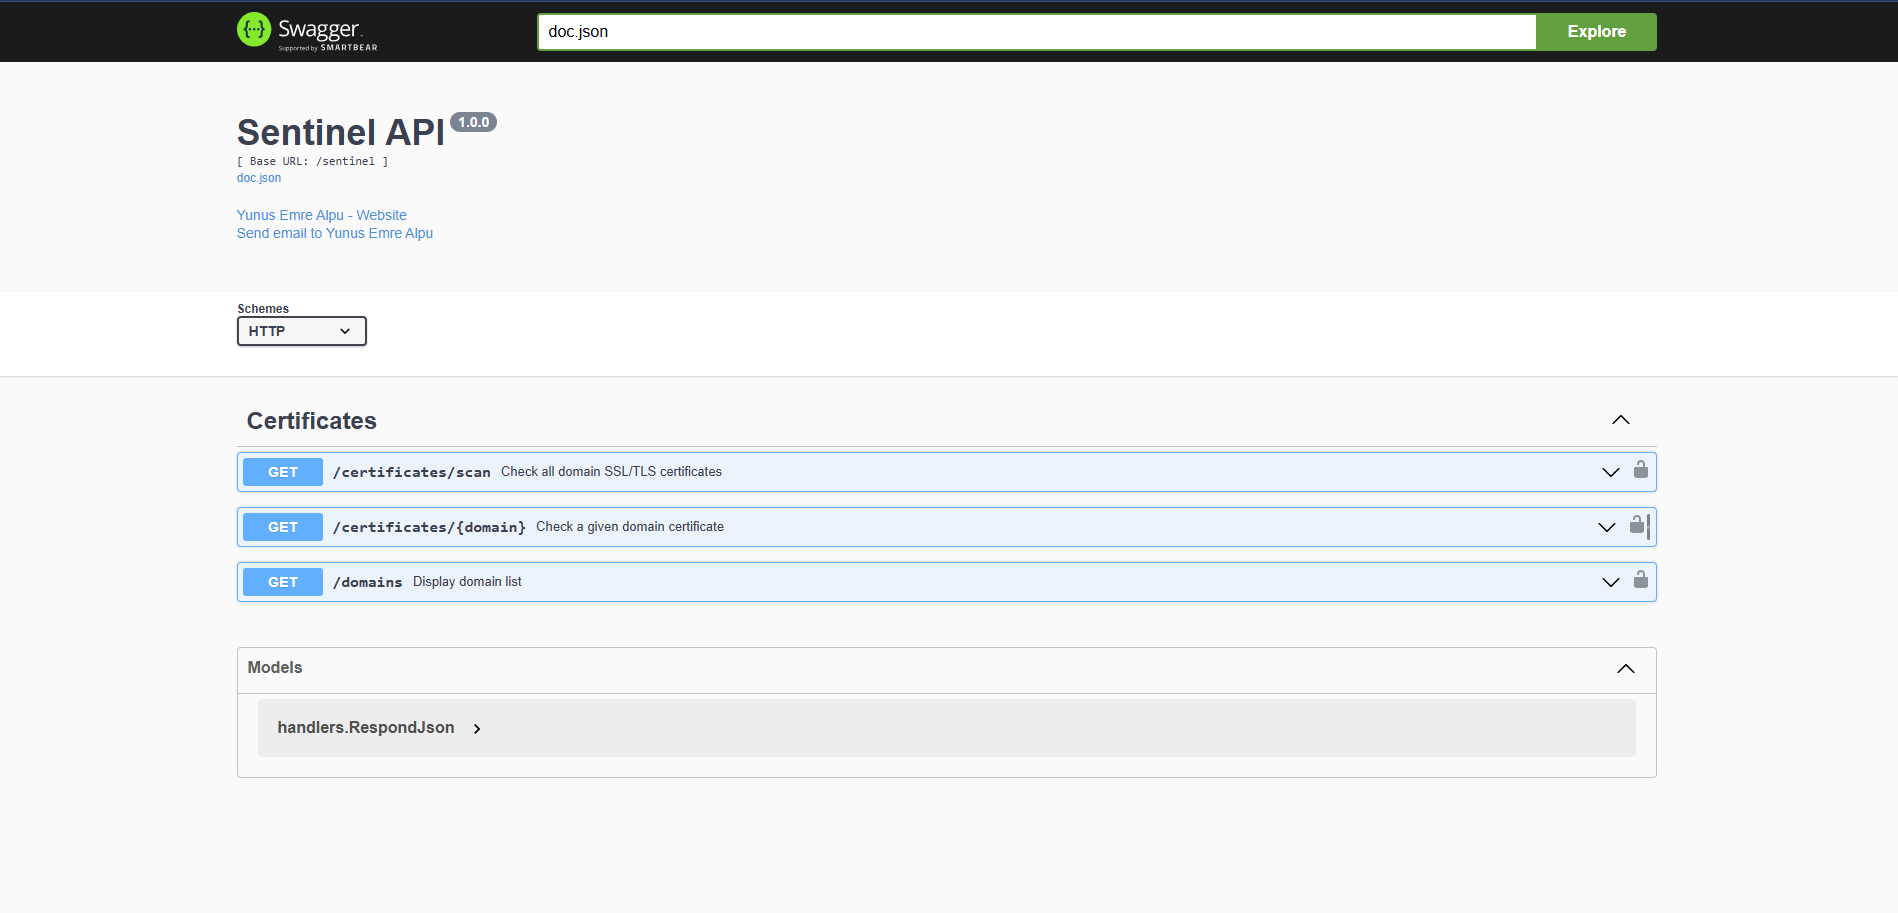
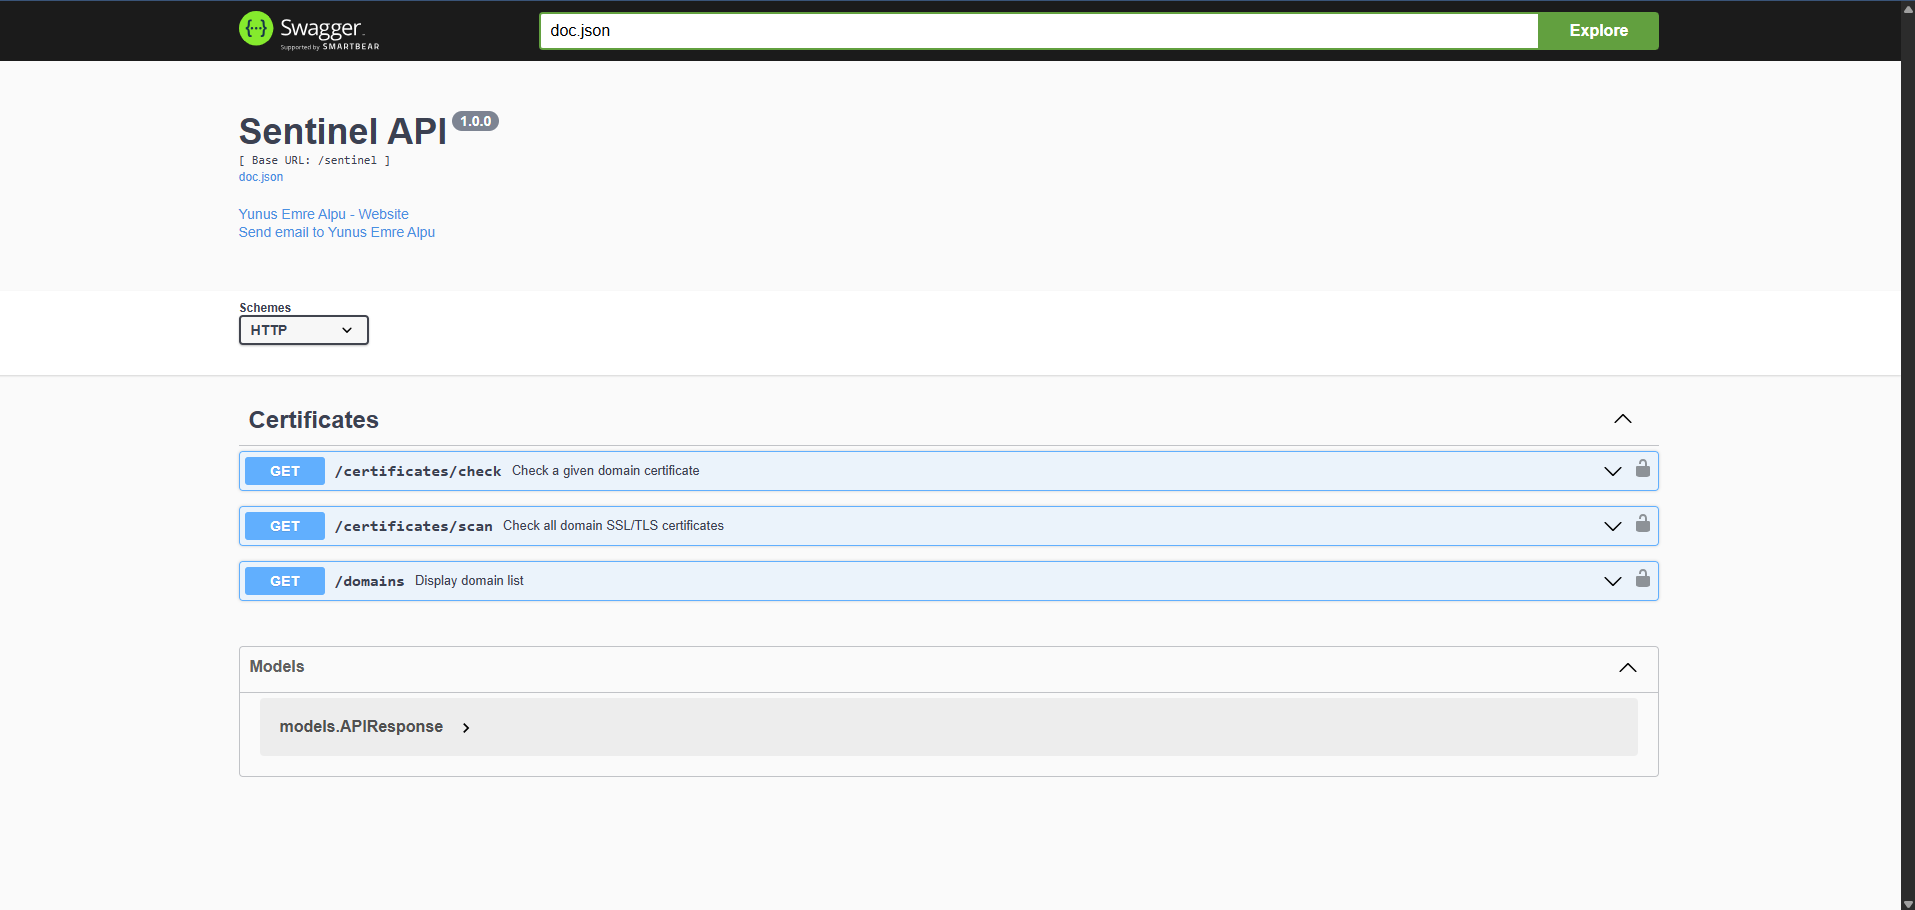
refactor: Update certificate check endpoints and improve documentation

diff --git a/docs/docs.go b/docs/docs.go
@@ -19,6 +19,67 @@ const docTemplate = `{
     "host": "{{.Host}}",
     "basePath": "{{.BasePath}}",
     "paths": {
+        "/certificates/check": {
+            "get": {
+                "security": [
+                    {
+                        "BearerAuth": []
+                    }
+                ],
+                "description": "This endpoint checks the SSL/TLS certificate of a given domain and returns its details. Only one domain can be checked at a time.",
+                "consumes": [
+                    "application/json"
+                ],
+                "produces": [
+                    "application/json"
+                ],
+                "tags": [
+                    "Certificates"
+                ],
+                "summary": "Check a given domain certificate",
+                "parameters": [
+                    {
+                        "type": "string",
+                        "description": "Domain",
+                        "name": "domain",
+                        "in": "query",
+                        "required": true
+                    },
+                    {
+                        "type": "integer",
+                        "description": "Expire days, default is config.C.App.Expire value",
+                        "name": "expire",
+                        "in": "query"
+                    }
+                ],
+                "responses": {
+                    "200": {
+                        "description": "Certificate details retrieved successfully",
+                        "schema": {
+                            "$ref": "#/definitions/models.APIResponse"
+                        }
+                    },
+                    "400": {
+                        "description": "Certificate check failed due to invalid request",
+                        "schema": {
+                            "$ref": "#/definitions/models.APIResponse"
+                        }
+                    },
+                    "422": {
+                        "description": "Certificate check failed due to invalid request",
+                        "schema": {
+                            "$ref": "#/definitions/models.APIResponse"
+                        }
+                    },
+                    "500": {
+                        "description": "Certificate check failed due to internal server error",
+                        "schema": {
+                            "$ref": "#/definitions/models.APIResponse"
+                        }
+                    }
+                }
+            }
+        },
         "/certificates/scan": {
             "get": {
                 "security": [
@@ -52,67 +113,6 @@ const docTemplate = `{
                     },
                     "422": {
                         "description": "Certificate check failed due to invalid request body",
-                        "schema": {
-                            "$ref": "#/definitions/models.APIResponse"
-                        }
-                    },
-                    "500": {
-                        "description": "Certificate check failed due to internal server error",
-                        "schema": {
-                            "$ref": "#/definitions/models.APIResponse"
-                        }
-                    }
-                }
-            }
-        },
-        "/certificates/{domain}": {
-            "get": {
-                "security": [
-                    {
-                        "BearerAuth": []
-                    }
-                ],
-                "description": "This endpoint checks the SSL/TLS certificate of a given domain and returns its details. Only one domain can be checked at a time.",
-                "consumes": [
-                    "application/json"
-                ],
-                "produces": [
-                    "application/json"
-                ],
-                "tags": [
-                    "Certificates"
-                ],
-                "summary": "Check a given domain certificate",
-                "parameters": [
-                    {
-                        "type": "string",
-                        "description": "yunusemrealpu.netlify.app:443",
-                        "name": "domain",
-                        "in": "path",
-                        "required": true
-                    },
-                    {
-                        "type": "integer",
-                        "description": "Expire days, default is config.C.App.Expire value",
-                        "name": "expire",
-                        "in": "query"
-                    }
-                ],
-                "responses": {
-                    "200": {
-                        "description": "Certificate details retrieved successfully",
-                        "schema": {
-                            "$ref": "#/definitions/models.APIResponse"
-                        }
-                    },
-                    "400": {
-                        "description": "Certificate check failed due to invalid request",
-                        "schema": {
-                            "$ref": "#/definitions/models.APIResponse"
-                        }
-                    },
-                    "422": {
-                        "description": "Certificate check failed due to invalid request",
                         "schema": {
                             "$ref": "#/definitions/models.APIResponse"
                         }

diff --git a/pkg/utils/helpers.go b/pkg/utils/helpers.go
@@ -8,6 +8,7 @@ import (
 	"encoding/pem"
 	"fmt"
 	"net"
+	"net/url"
 	"strconv"
 	"strings"
 	"time"
@@ -93,6 +94,60 @@ func UrlToOptions(url string) (string, string, string, string, string, string) {
 	return protocol, username, password, host, port, db
 }
 
+// NormalizeDomain normalizes domain input to host:port format
+// Supports formats:
+//   - domain.com (adds default port 443)
+//   - domain.com:443 (uses as-is)
+//   - https://domain.com (parses URL, uses port 443)
+//   - http://domain.com:8080 (parses URL, uses specified port)
+//   - https://domain.com:8443 (parses URL, uses specified port)
+func NormalizeDomain(domain string) (string, error) {
+	if domain == "" {
+		return "", fmt.Errorf("domain cannot be empty")
+	}
+
+	// Trim spaces
+	domain = strings.TrimSpace(domain)
+
+	// Check if domain already has protocol
+	if strings.HasPrefix(domain, "http://") || strings.HasPrefix(domain, "https://") {
+		// Parse URL
+		parsedURL, err := url.Parse(domain)
+		if err != nil {
+			return "", fmt.Errorf("invalid URL format: %v", err)
+		}
+
+		host := parsedURL.Hostname()
+		port := parsedURL.Port()
+
+		// If port is not specified, use default based on scheme
+		if port == "" {
+			if parsedURL.Scheme == "https" {
+				port = "443"
+			} else {
+				port = "80"
+			}
+		}
+
+		return fmt.Sprintf("%s:%s", host, port), nil
+	}
+
+	// Check if domain already has port (format: domain:port)
+	if strings.Contains(domain, ":") {
+		// Validate that it has exactly one colon and port is numeric
+		parts := strings.Split(domain, ":")
+		if len(parts) == 2 {
+			if _, err := strconv.Atoi(parts[1]); err == nil {
+				// Valid domain:port format
+				return domain, nil
+			}
+		}
+	}
+
+	// No protocol, no port - add default HTTPS port
+	return fmt.Sprintf("%s:443", domain), nil
+}
+
 // Check Domain Certificate with context support
 func CheckDomainCertificate(domain string, day int) (bool, *models.Log) {
 	ctx, cancel := context.WithTimeout(context.Background(), DefaultTimeout)
@@ -108,13 +163,20 @@ func CheckDomainCertificateWithContext(ctx context.Context, domain string, day i
 		day = constants.DefaultExpireDays
 	}
 
+	// Normalize domain to host:port format
+	normalizedDomain, err := NormalizeDomain(domain)
+	if err != nil {
+		logger.CLogger.Error("Failed to normalize domain:", err)
+		return false, nil
+	}
+
 	// false: certificate will not expire in 30 days
 	// true: certificate will expire in 30 days
-	logger.CLogger.Info("INFO: Checking certificate for " + domain)
+	logger.CLogger.Info("INFO: Checking certificate for " + normalizedDomain)
 
 	// TCP connection to domain with context
 	var d net.Dialer
-	conn, err := d.DialContext(ctx, "tcp", domain)
+	conn, err := d.DialContext(ctx, "tcp", normalizedDomain)
 	if err != nil {
 		if netErr, ok := err.(*net.OpError); ok && netErr.Op == "dial" {
 			// DNS resolution error
@@ -135,7 +197,7 @@ func CheckDomainCertificateWithContext(ctx context.Context, domain string, day i
 	// TLS Handshake
 	// x509: certificate signed by unknown authority
 	tlsConn := tls.Client(conn, &tls.Config{
-		ServerName:         strings.Split(domain, ":")[0],
+		ServerName:         strings.Split(normalizedDomain, ":")[0],
 		InsecureSkipVerify: true,
 	})
 
@@ -154,7 +216,7 @@ func CheckDomainCertificateWithContext(ctx context.Context, domain string, day i
 	}
 
 	cert := state.PeerCertificates[0]
-	tempPort, _ := strconv.Atoi(strings.Split(domain, ":")[1])
+	tempPort, _ := strconv.Atoi(strings.Split(normalizedDomain, ":")[1])
 	tempOrganization := cert.Subject.Organization                      // Optimized line
 	daysUntilExpiration := int(time.Until(cert.NotAfter).Hours() / 24) // Optimized line
 
@@ -177,7 +239,7 @@ func CheckDomainCertificateWithContext(ctx context.Context, domain string, day i
 		SerialNumber:       cert.SerialNumber.String(),
 		Subject:            cert.Subject.String(),
 		IssuerSubject:      cert.Issuer.String(),
-		Domain:             strings.Split(domain, ":")[0],
+		Domain:             strings.Split(normalizedDomain, ":")[0],
 		Port:               tempPort,
 		CommonName:         cert.Subject.CommonName,
 		Organization:       ArrayToString(tempOrganization),

diff --git a/internal/handlers/get_certificate_info.go b/internal/handlers/get_certificate_info.go
@@ -24,16 +24,16 @@ import (
 // @Accept json
 // @Produce json
 // @Security BearerAuth
-// @Param domain path string true "yunusemrealpu.netlify.app:443"
+// @Param domain query string true "Domain"
 // @Param expire query int false "Expire days, default is config.C.App.Expire value"
 // @Success 200 {object} models.APIResponse "Certificate details retrieved successfully"
 // @Failure 400 {object} models.APIResponse "Certificate check failed due to invalid request"
 // @Failure 422 {object} models.APIResponse "Certificate check failed due to invalid request"
 // @Failure 500 {object} models.APIResponse "Certificate check failed due to internal server error"
-// @Router /certificates/{domain} [get]
+// @Router /certificates/check [get]
 func (ss *Sentinel) GetCertificateInfo(c *gin.Context) (int, interface{}, error) {
 	// Get domain from the request parameters
-	domain := c.Param("domain")
+	domain := c.Query("domain")
 	if domain == "" {
 		return http.StatusBadRequest, nil, fmt.Errorf("domain is required")
 	}

diff --git a/internal/handlers/handlers.go b/internal/handlers/handlers.go
@@ -79,16 +79,16 @@ func (bs *Sentinel) InitRouter(r *gin.Engine) {
 		respondJson(ctx, code, API_PREFIX+"/domains", data, err)
 	})
 
-	// Certificate information for a specific domain
-	v1.GET("/certificates/:domain", func(ctx *gin.Context) {
-		code, data, err := bs.GetCertificateInfo(ctx)
-		respondJson(ctx, code, API_PREFIX+"/certificates/:domain", data, err)
-	})
-
 	// Get all certificates from the utility/data.go file
 	v1.GET("/certificates/scan", func(ctx *gin.Context) {
 		code, data, err := bs.GetAllExpirations(ctx)
 		respondJson(ctx, code, API_PREFIX+"/certificates/scan", data, err)
+	})
+
+	// Certificate information for a specific domain
+	v1.GET("/certificates/check", func(ctx *gin.Context) {
+		code, data, err := bs.GetCertificateInfo(ctx)
+		respondJson(ctx, code, API_PREFIX+"/certificates/check", data, err)
 	})
 
 	// Health check

diff --git a/pkg/utils/data.go b/pkg/utils/data.go
@@ -1,8 +1,17 @@
 package utils
 
 var DomainList = []string{
-	// domain list here
-	"yunusemrealpu.netlify.app:443",
+	// domain list here - supports multiple formats:
+	// 1. domain.com (automatically adds port 443)
+	// 2. domain.com:443 (explicit port)
+	// 3. https://domain.com (uses port 443)
+	// 4. http://domain.com (uses port 80)
+	// 5. https://domain.com:8443 (custom HTTPS port)
+
+	"yunusemrealpu.netlify.app:443", // format with port
+	// "example.com",                  // without port (will use 443)
+	// "https://google.com",           // with protocol (will use 443)
+	// "http://example.com:8080",      // HTTP with custom port
 }
 
 // To Users
